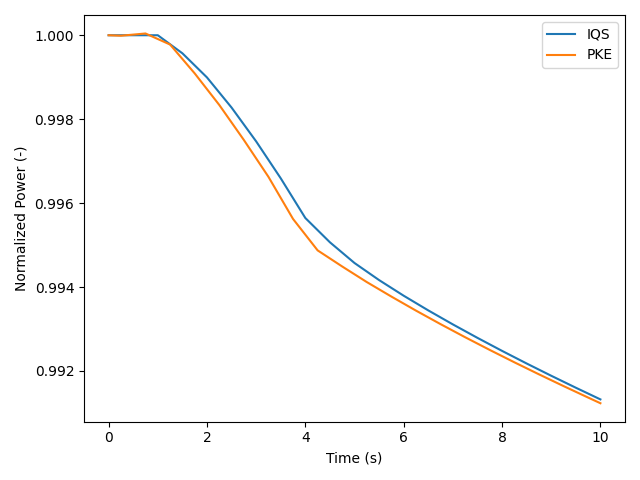
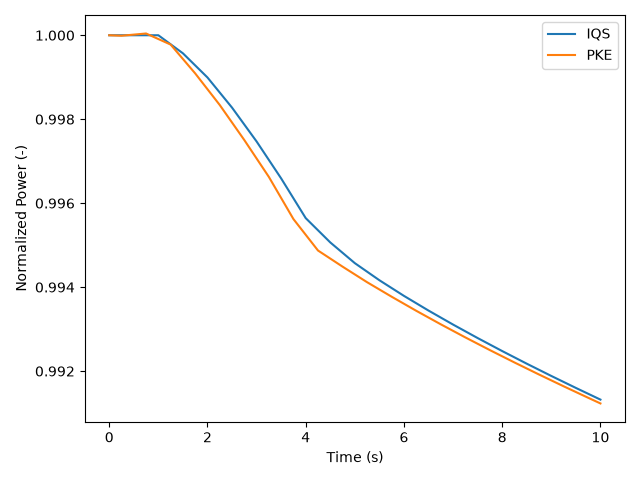
correct typos/spelling mistakes

diff --git a/doc/content/htgr/generic-pbr-tutorial-segregated/step1.md b/doc/content/htgr/generic-pbr-tutorial-segregated/step1.md
@@ -7,12 +7,12 @@ channel has no pressure drop or heat source. The inflow boundary
 is situated at the top, the outflow boundary is situated at the bottom,
 and the left and right boundaries are slip walls.
 
-We expect that velocity in the y-direction and pressure are uniform in the flow channel
+We expect that the y-direction velocity and pressure are uniform in the flow channel
 and velocity in the x-direction is 0. The heat equation is not solved at all,
 and the fluid temperature will not be added as a variable.
 
 This tutorial uses the finite volume method to discretize the thermal-hydraulics equations.
-We solve a steady-state directly using the SIMPLE solver.
+We solve directly to steady state using the SIMPLE solver.
 
 ### Geometry
 
@@ -36,7 +36,7 @@ To visualize the geometry, you can run:
 !listing
 ./pronghorn-opt -i step1.i --mesh-only
 
-This command produces the file `step1_in.e` that can be visualized using paraview.
+This command produces the file `step1_in.e` that can be visualized using ParaView.
 It is shown in [step1geom].
 
 !media generic-pbr-tutorial/step1_geometry.png
@@ -57,7 +57,7 @@ The second task is performed by the `GeneralFunctorFluidProps` object:
 
 !listing htgr/generic-pbr-tutorial-segregated/step1.i block=FunctorMaterials
 
-This object takes pressure and temperature provided to the parameters
+This object takes pressure and temperature provided by the parameters
 `pressure` and `T_fluid`, respectively, and computes fluid properties, such as
 density and viscosity. Density and viscosity are named `rho` and `mu`.
 Note that `T_fluid` is set to a constant value in this input file because
@@ -136,7 +136,7 @@ We use postprocessors to compute the inlet and outlet mass flow rates.
 !listing htgr/generic-pbr-tutorial-segregated/step1.i block=Postprocessors
 
 The `desired_mfr` postprocessor simply takes the `mass_flow_rate` parameter computed
-at the top of the input file and prints it to screen. This is the mass flow rate we
+at the top of the input file and prints it to the screen. This is the mass flow rate we
 want to achieve.
 
 The `inlet_mfr` and `outlet_mfr` are `RhieChowMassFlowRate` postprocessors. They
@@ -165,8 +165,8 @@ Execute `step1.i` by:
 !listing
 ./pronghorn-opt -i step1.i
 
-Execution should take less than 2 seconds. An exodus file `step1_out.e` and a CSV file
-`step1_out.csv` are created. The exodus file contains the pressure and superficial
+Execution should take less than 2 seconds. An Exodus file `step1_out.e` and a CSV file
+`step1_out.csv` are created. The Exodus file contains the pressure and superficial
 velocity solutions. These are constant at $p=5.5$ MPa and
 $\vec{v}=(0,-1.54191)$ m/s. Since they are not very relevant, they are not plotted here.
 The final postprocessor values are:

diff --git a/doc/content/htgr/generic-pbr-tutorial-segregated/step5.md b/doc/content/htgr/generic-pbr-tutorial-segregated/step5.md
@@ -17,7 +17,7 @@ The geometry is changed by updating the `[Mesh/cartesian_mesh]` block:
 
 !listing htgr/generic-pbr-tutorial-segregated/step5.i block=cartesian_mesh
 
-The mesh is drawn up by the inputs of dy and dx. The entries in the dx and dy represent the thickness of segments that total up to the total size of the model along the respective axis. The product of the sets of segments along the x-axis and y-axis create a grid of elements whose blocks can be set using the `subdomain_id` parameter. The entries in the `subdomain_id` parameter are ordered from the left bottom to the top right with
+The mesh is defined by the `dx` and `dy` inputs. The entries in `dx` and `dy` represent the thickness of segments that total up to the total size of the model along the respective axis. The product of the sets of segments along the x-axis and y-axis creates a grid of elements whose blocks can be set using the `subdomain_id` parameter. The entries in the `subdomain_id` parameter are ordered from the bottom left to the top right with
 entries in the bottom row of the geometry being filled first before moving to the second
 row and so forth.
 The bottom reflector has block id 3 while the side reflector has block id 4.
@@ -25,7 +25,7 @@ The blocks present in the `subdomain_id` are named using the following lines:
 
 !listing htgr/generic-pbr-tutorial-segregated/step5.i start=block_id end=side_reflector'
 
-In addition to adding the bottom and side reflector, several additional sidesets (or synonymously in MOOSE: boundaries) are created in the `Mesh` block and the dimension of the pebble bed are updated.
+In addition to adding the bottom and side reflector, several additional sidesets (or synonymously in MOOSE: boundaries) are created in the `Mesh` block and the dimensions of the pebble bed are updated.
 
 The addition of two blocks requires updates to most of the `block` parameters in Step 5.
 
@@ -95,7 +95,7 @@ diagonal tensor property everywhere. To that end we use `ADGenericVectorFunctorM
 Neither `rho_s` nor `cp_s` are modified by $1 - \epsilon$ because the solid
 energy equation uses the thermal conductivity tensor directly.
 
-We use the same paradigm for providing effective thermal conductivity, `kappa`, of the fluid as for providing the effective solid thermal conductivity (i.e.,`effective_thermal_conductivity`). The effective fluid thermal conductivity is identical to the
+We use the same paradigm for providing effective thermal conductivity, `kappa`, of the fluid as for providing the effective solid thermal conductivity (i.e., `effective_thermal_conductivity`). The effective fluid thermal conductivity is identical to the
 molecular thermal conductivity of helium almost everywhere. The exception is the pebble bed, where the thermal conductivity of the helium is
 increased to account for the braiding effect. Braiding refers to the lateral movement of fluid around pebbles on its way through the core
 which is not accounted for in porous medium models. The standard way of accounting for braiding is to increase the thermal conductivity of
@@ -116,7 +116,7 @@ The heat transfer coefficient in the bottom reflector is (somewhat arbitrarily)
 set to $2 \times 10^4$ W/m$^3$-K.
 
 For the pressure drop in the bottom reflector, we assume that the bottom
-reflector is made up of pipes if diameter $0.1$ m. The pressure drop in these
+reflector is made up of pipes of diameter $0.1$ m. The pressure drop in these
 pipes is estimated using the Churchill correlation that is available in Pronghorn via the `FunctorChurchillDragCoefficients` object:
 
 !listing htgr/generic-pbr-tutorial-segregated/step5.i block=drag_bottom_reflector
@@ -125,7 +125,7 @@ The `multipliers` parameter makes the pressure drop in the x-direction much
 larger than in the y-direction modeling a pipe oriented along
 the y-direction.
 
-Some materials based on correlations pick up a characteristic length as parameter `characteristic_length`. The characteristic length is usually different in different
+Some materials based on correlations pick up a characteristic length as a parameter `characteristic_length`. The characteristic length is usually different in different
 parts of the model so it is good practice to set it using `PiecewiseByBlockFunctorMaterial`.
 
 !listing htgr/generic-pbr-tutorial-segregated/step5.i block=characteristic_length
@@ -141,7 +141,7 @@ The appropriate way to get an average outlet temperature is to weight it by the 
 
 !listing htgr/generic-pbr-tutorial-segregated/step5.i block=mass_flux_weighted_Tf_out
 
-It works very similar to the `RhieChowMassFlowRate` postprocessors that are used to compute mass flow rate and enthalpy flow rates.
+It works very similarly to the `RhieChowMassFlowRate` postprocessors that are used to compute mass flow rate and enthalpy flow rates.
 
 ## Execution
 
@@ -150,7 +150,7 @@ It works very similar to the `RhieChowMassFlowRate` postprocessors that are used
 
 ## Results
 
-The geometry/mesh, fluid temperature, pressure, superficial vertical velocity, and solid temperature are shown in [step5mesh] to [step5T_solid].
+The geometry/mesh, fluid temperature, pressure, superficial vertical velocity, and solid temperature are shown in [step5mesh] through [step5T_solid].
 
 !media generic-pbr-tutorial/MeshP5.png
     style=width:20%

diff --git a/doc/content/htgr/generic-pbr-tutorial-segregated/step3.md b/doc/content/htgr/generic-pbr-tutorial-segregated/step3.md
@@ -1,7 +1,7 @@
 ## Step 3
 
 In this step, we make the flow problem heterogeneous.
-Above the pebble bed in a pebble-bed reactor is usually a cavity that is only
+A cavity usually sits above the pebble bed in a pebble-bed reactor and is only
 filled with fluid, so it has a porosity of 1. The interface between the cavity
 and the bed is modeled as a sharp discontinuity in both porosity and momentum
 transfer; for example, the pressure drop is very small in the cavity and much
@@ -23,7 +23,7 @@ input file. `CartesianMeshGenerator` is explained in detail
 The main differences between `CartesianMeshGenerator` and
 `GeneratedMeshGenerator` are that `CartesianMeshGenerator` specifies the
 thickness of regions in the x, y, and z-direction instead of simply giving end
-point and number of elements and that it allows to assign `subdomain_id` for
+point and number of elements and that it allows assigning `subdomain_id` for
 each of the "macro-regions" laid out by the `dx` and `dy` parameters.
 In our case, we have one entry in `dx` and two entries in `dy` so we have
 $1 \times 2$ entries in `subdomain_id`. The order of entries in the
@@ -33,9 +33,9 @@ $1 \times 2$ entries in `subdomain_id`. The order of entries in the
 (0,0) (1,0), (2,0), ... , (0,1), (1,1), ... (nx,ny)
 
 where each `(ix,iy)` is one entry that gives the subdomain, or synonymously
-block id, of zone located at grid coordinates `ix` and `iy`.
+block id, of the zone located at grid coordinates `ix` and `iy`.
 The indexing goes from small to large coordinate values, so we fill the
-`subdomain_id` from the left bottom to the right top.
+`subdomain_id` from the bottom left to the top right.
 
 For convenience, we label block 1 as bed and block 2 as cavity using the
 `RenameBlockGenerator`:
@@ -65,7 +65,7 @@ by:
 !listing
 ./pronghorn-opt -i step3.i --mesh-only
 
-creating the file `step3_in.e` that can be visualized using paraview.
+creating the file `step3_in.e` that can be visualized using ParaView.
 
 !media generic-pbr-tutorial/step3_geometry.png
         style=width:10%

diff --git a/doc/content/htgr/generic-pbr-tutorial-segregated/step6.md b/doc/content/htgr/generic-pbr-tutorial-segregated/step6.md
@@ -1,6 +1,6 @@
 ## Step 6
 
-We build upon the previous step by adding the upper/bottom plenum and the riser. The inlet boundary has moved from the top of the cavity to the bottom of the riser and the outlet changed from the bottom of the bottom reflector to the right side of the bottom plenum.
+We build upon the previous step by adding the upper and bottom plenums and the riser. The inlet boundary has moved from the top of the cavity to the bottom of the riser and the outlet boundary has moved from the bottom of the bottom reflector to the right side of the bottom plenum.
 
 In contrast to Step 5, the coolant now turns three times on its way from the inlet to the outlet boundary. The fluid flow path starts from the inlet, goes up into the riser, then across the upper plenum and cavity. Next, the flow goes down through the pebble-bed followed by the bottom reflector and bottom plenum. Finally, the flow will go through the outlet.
 
@@ -17,7 +17,7 @@ set the Darcy coefficient to a number that is large enough to ensure smooth conv
 
 ## Geometry
 
-The geometry is changed in `[Mesh/cartesian_mesh]`. Note, the addition
+The geometry is changed in `[Mesh/cartesian_mesh]`. Note the addition
 of the plenum and riser blocks.
 
 !listing htgr/generic-pbr-tutorial-segregated/step6.i block=cartesian_mesh
@@ -37,7 +37,7 @@ We added `GenericFunctorMaterial` in the `riser`, `upper_plenum`, and `bottom_pl
 
 !listing htgr/generic-pbr-tutorial-segregated/step6.i start=graphite_rho_and_cp_riser end=kappa_s_pebble_bed
 
-The difference to the already existing reflector definitions is the different
+The difference from the already existing reflector definitions is the different
 value of $1-\epsilon$ used in the conductivity multiplier.
 
 The drag coefficients in the `cavity`, `upper_plenum` and `bottom_plenum` are set using the `c_drag` material derived from `c_drag_old`:
@@ -67,9 +67,9 @@ To run step 6, you simply run:
 
 ## Results
 
-In [step6T_fluid], the fluid temperature and flow field are shown. The main difference of Step 6 to the previous steps is that
+In [step6T_fluid], the fluid temperature and flow field are shown. The main difference between Step 6 and the previous steps is that
 the flow turns multiple times before reaching the outlet.
-In [step6T_solid], the solid temperature along with the outline of the fluid domain are shown.
+In [step6T_solid], the solid temperature and the outline of the fluid domain are shown.
 
 !media generic-pbr-tutorial-segregated/T_fluidP6.png
         style=width:50%

diff --git a/doc/content/htgr/generic-pbr-tutorial-segregated/step7.md b/doc/content/htgr/generic-pbr-tutorial-segregated/step7.md
@@ -10,7 +10,7 @@ the control rod is cooled during reactor operations.
 A portion of the side reflector between the riser and pebble bed is replaced by the `control_rods` block (block 8). The modification that needs to be made in the `cartesian_mesh` object is simple: some of the numbers that represent the side reflector are replaced by block number 8. We assume that the control rods are not inserted
 in this model, so the porous medium contains only flow volume and graphite. The geometry is depicted in [step7mesh].
 
-Note, the `control_rods` block defines both flow variables and
+Note the `control_rods` block defines both flow variables and
 `T_solid` and the corresponding block definitions must be updated.
 
 !media generic-pbr-tutorial/MeshP7.png
@@ -29,7 +29,7 @@ a diameter of $0.1$ m.
 ## Materials
 
 The control rod block has a porosity of $0.32$. The porosity is computed as the ratio of
-control rod channel area (number of control rods times the area of a circle of diameter $0.1$ m) and the
+control rod channel area (number of control rods times the area of a circle of diameter $0.1$ m) to the
 area of the porous flow region perpendicular to the vertical axis that represents the control rod in this model. The porosity is added here:
 
 !listing htgr/generic-pbr-tutorial-segregated/step7.i block=porosity
@@ -44,7 +44,7 @@ other non-pebble-bed regions using a `GenericFunctorMaterial`:
 !listing htgr/generic-pbr-tutorial-segregated/step7.i block=graphite_rho_and_cp_riser_control_rods
 
 The drag coefficient in the `control_rods` is used to adjust the bypass flow to
-between $2$ and $3$% of the nominal mass flow rate. The Darcy coefficient is set to
+between $2$% and $3$% of the nominal mass flow rate. The Darcy coefficient is set to
 $0$ and the Forchheimer coefficient is set by a `LinearFrictionFactorFunctorMaterial` object. The local speed used by this model is provided by the `speed_material` functor.
 
 !listing htgr/generic-pbr-tutorial-segregated/step7.i start=Darcy_control_rods end=[porosity]
@@ -58,7 +58,7 @@ The mass flow rate through the bypass flow channel is measured using this postpr
 
 !listing htgr/generic-pbr-tutorial-segregated/step7.i block=cr_mfr
 
-The postprocessor uses the Rhie-Chow face flux and is not outputted anywhere because of the `outputs = none` line.
+The postprocessor uses the Rhie-Chow face flux and is not output anywhere because of the `outputs = none` line.
 The fraction of mass flow going through the control rod channel is computed by
 `cr_mfr_fraction`:
 

diff --git a/doc/content/htgr/generic-pbr-tutorial-segregated/step4.md b/doc/content/htgr/generic-pbr-tutorial-segregated/step4.md
@@ -8,7 +8,7 @@ transferred to the helium coolant via convection.
 Note that in this step, many parameters, such as mass flow rate and inlet
 temperature, and material property values, such as heat transfer coefficients,
 are not set to realistic values. The obtained results are therefore quite
-different from prototypical gas cooled reactors.
+different from prototypical gas-cooled reactors.
 
 ## Added Inputs
 
@@ -79,11 +79,11 @@ simple functor materials:
 
 ## Results
 
-From the screen output we find that at steady-state, the `enthalpy_balance`
+From the screen output we find that at steady state, the `enthalpy_balance`
 matches the `heat_source_integral`, indicating that Pronghorn conserves energy.
 
 The geometry/mesh, fluid temperature, solid temperature, and vertical superficial
-velocity are shown in [step4mesh] to [step4Velocity]. A few remarks
+velocity are shown in [step4mesh] through [step4Velocity]. A few remarks
 are in order:
 
 - Fluid temperature increases monotonically from top to bottom. The temperature

diff --git a/doc/content/htgr/generic-pbr-tutorial-segregated/index.md b/doc/content/htgr/generic-pbr-tutorial-segregated/index.md
@@ -29,7 +29,7 @@ and create a link to your Pronghorn executable:
 !listing
 ln -s /path/to/projects/pronghorn/pronghorn-opt
 
-As an Idaho National Laboratory High Performance Computing user you do not need to create the link to the executable, you can just load the Pronghorn module and run all the inputs in this tutorial using `pronghorn-opt` instead of `./pronghorn-opt` e.g.:
+As an Idaho National Laboratory High Performance Computing user, you do not need to create the link to the executable. You can just load the Pronghorn module and run all the inputs in this tutorial using `pronghorn-opt` instead of `./pronghorn-opt`, e.g.:
 
 !listing
 pronghorn-opt -i step1.i
@@ -49,7 +49,7 @@ instead of
 
 [Step 5: Adding reflectors](generic-pbr-tutorial-segregated/step5.md)
 
-[Step 6: Adding plenums and riser](generic-pbr-tutorial-segregated/step6.md)
+[Step 6: Adding plenums and a riser](generic-pbr-tutorial-segregated/step6.md)
 
 [Step 7: Adding control rod bypass](generic-pbr-tutorial-segregated/step7.md)
 

diff --git a/doc/content/htgr/generic-pbr-tutorial-segregated/step2.md b/doc/content/htgr/generic-pbr-tutorial-segregated/step2.md
@@ -42,7 +42,7 @@ We will use the KTA drag coefficient material in Pronghorn.
 To use this material, the characteristic length (aka hydraulic diameter)
 of the bed has to be set. For pebble beds, the characteristic length is the
 pebble diameter, which we assume to be $0.06$ m consistent with typical
-gas-cooled reactor pebbles. We create a real valued variable called
+gas-cooled reactor pebbles. We create a real-valued variable called
 `pebble_diameter` for convenience at the top of the input file:
 
 !listing htgr/generic-pbr-tutorial-segregated/step2.i start=T_fluid end=flow_vel
@@ -90,7 +90,7 @@ The `inlet_mfr` and `outlet_mfr` postprocessors use `RhieChowMassFlowRate` so
 that the measured mass flow rate is consistent with the face mass fluxes used by
 the SIMPLE pressure correction. Note that `inlet_pressure`,
 `outlet_pressure`, `integral_density`, `integral_mu`, and `area` are not printed
-to screen or written to the CSV file because the parameter `outputs` is set to
+to the screen or written to the CSV file because the parameter `outputs` is set to
 none.
 
 ## Executioner

diff --git a/doc/content/htgr/generic-pbr-tutorial-segregated/step8.md b/doc/content/htgr/generic-pbr-tutorial-segregated/step8.md
@@ -40,7 +40,7 @@ The added non-gap solid blocks are included in the `effective_thermal_conductivi
 !listing htgr/generic-pbr-tutorial-segregated/step8.i block=effective_reflector_thermal_conductivity
 
 The properties of the gaps are taken care of differently. The gaps are in principle not
-a solid but a stagnant gas. However, we treat it like a solid with small density and
+solids but stagnant gases. However, we treat them like solids with small density and
 effective thermal conductivity that takes into account conduction and radiation. To this end
 `cp_s` and `rho_s` are defined as usual:
 
@@ -62,7 +62,7 @@ In each gap object:
 
 - `gap_direction` is the coordinate direction pointing through the gap (i.e., connecting the two faces delimiting the gap),
 - `gap_conductivity_function` is the molecular thermal conductivity of the gas in the gap as a function of temperature,
-- `radius_primary` signals that the geometry that is considered is cylindrical. It is the inner radius of the cylindrical gap. `radius_secondary` must be provided now,
+- `radius_primary` indicates that the considered geometry is cylindrical. It is the inner radius of the cylindrical gap. `radius_secondary` must be provided now,
 - `radius_secondary` is the outer radius of the cylindrical gap.
 
 ## Execution